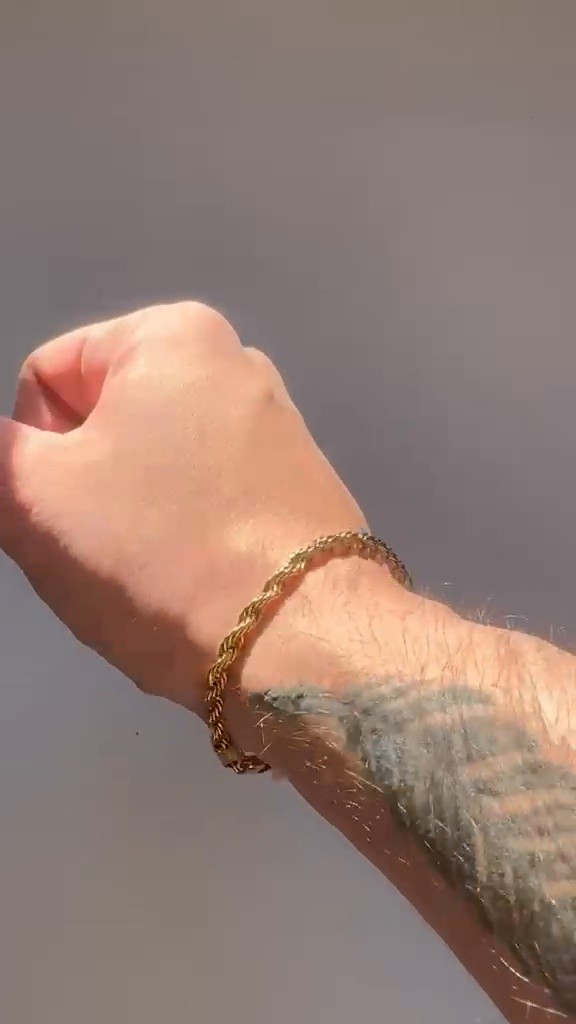
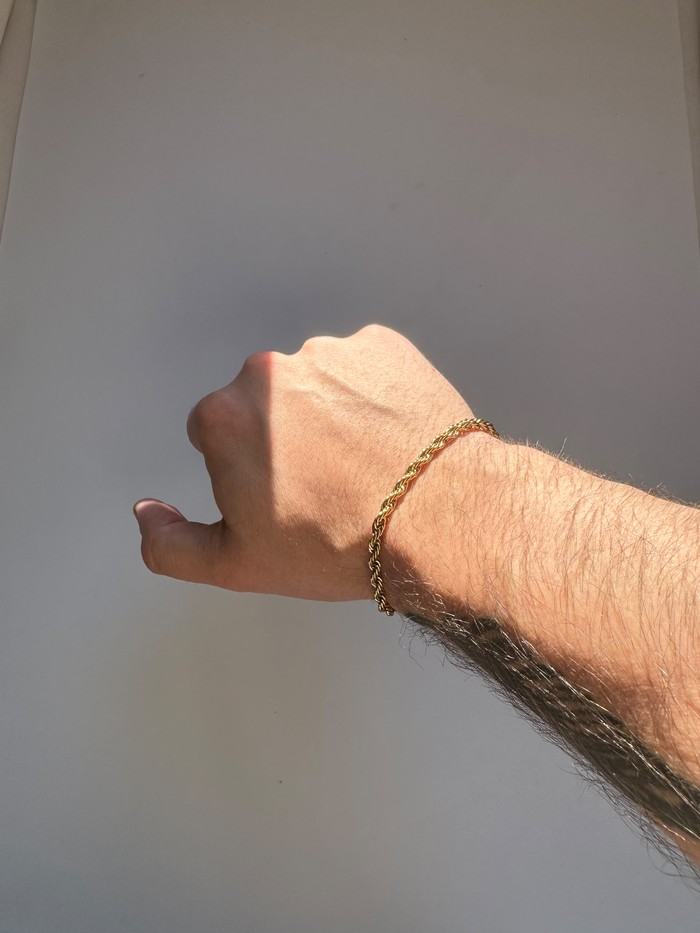
Replace "Pulsera Soga Gold" model photo with a better one

diff --git a/index.html b/index.html
@@ -141,7 +141,7 @@
 <!-- Modal de producto: lo arma site.js -->
 <div id="product-modal" class="product-modal" hidden></div>
 
-<script src="assets/js/products.js?v=35"></script>
+<script src="assets/js/products.js?v=36"></script>
 <script src="assets/js/shipping.js?v=5"></script>
 <script src="assets/js/site.js?v=20"></script>
 </body>
